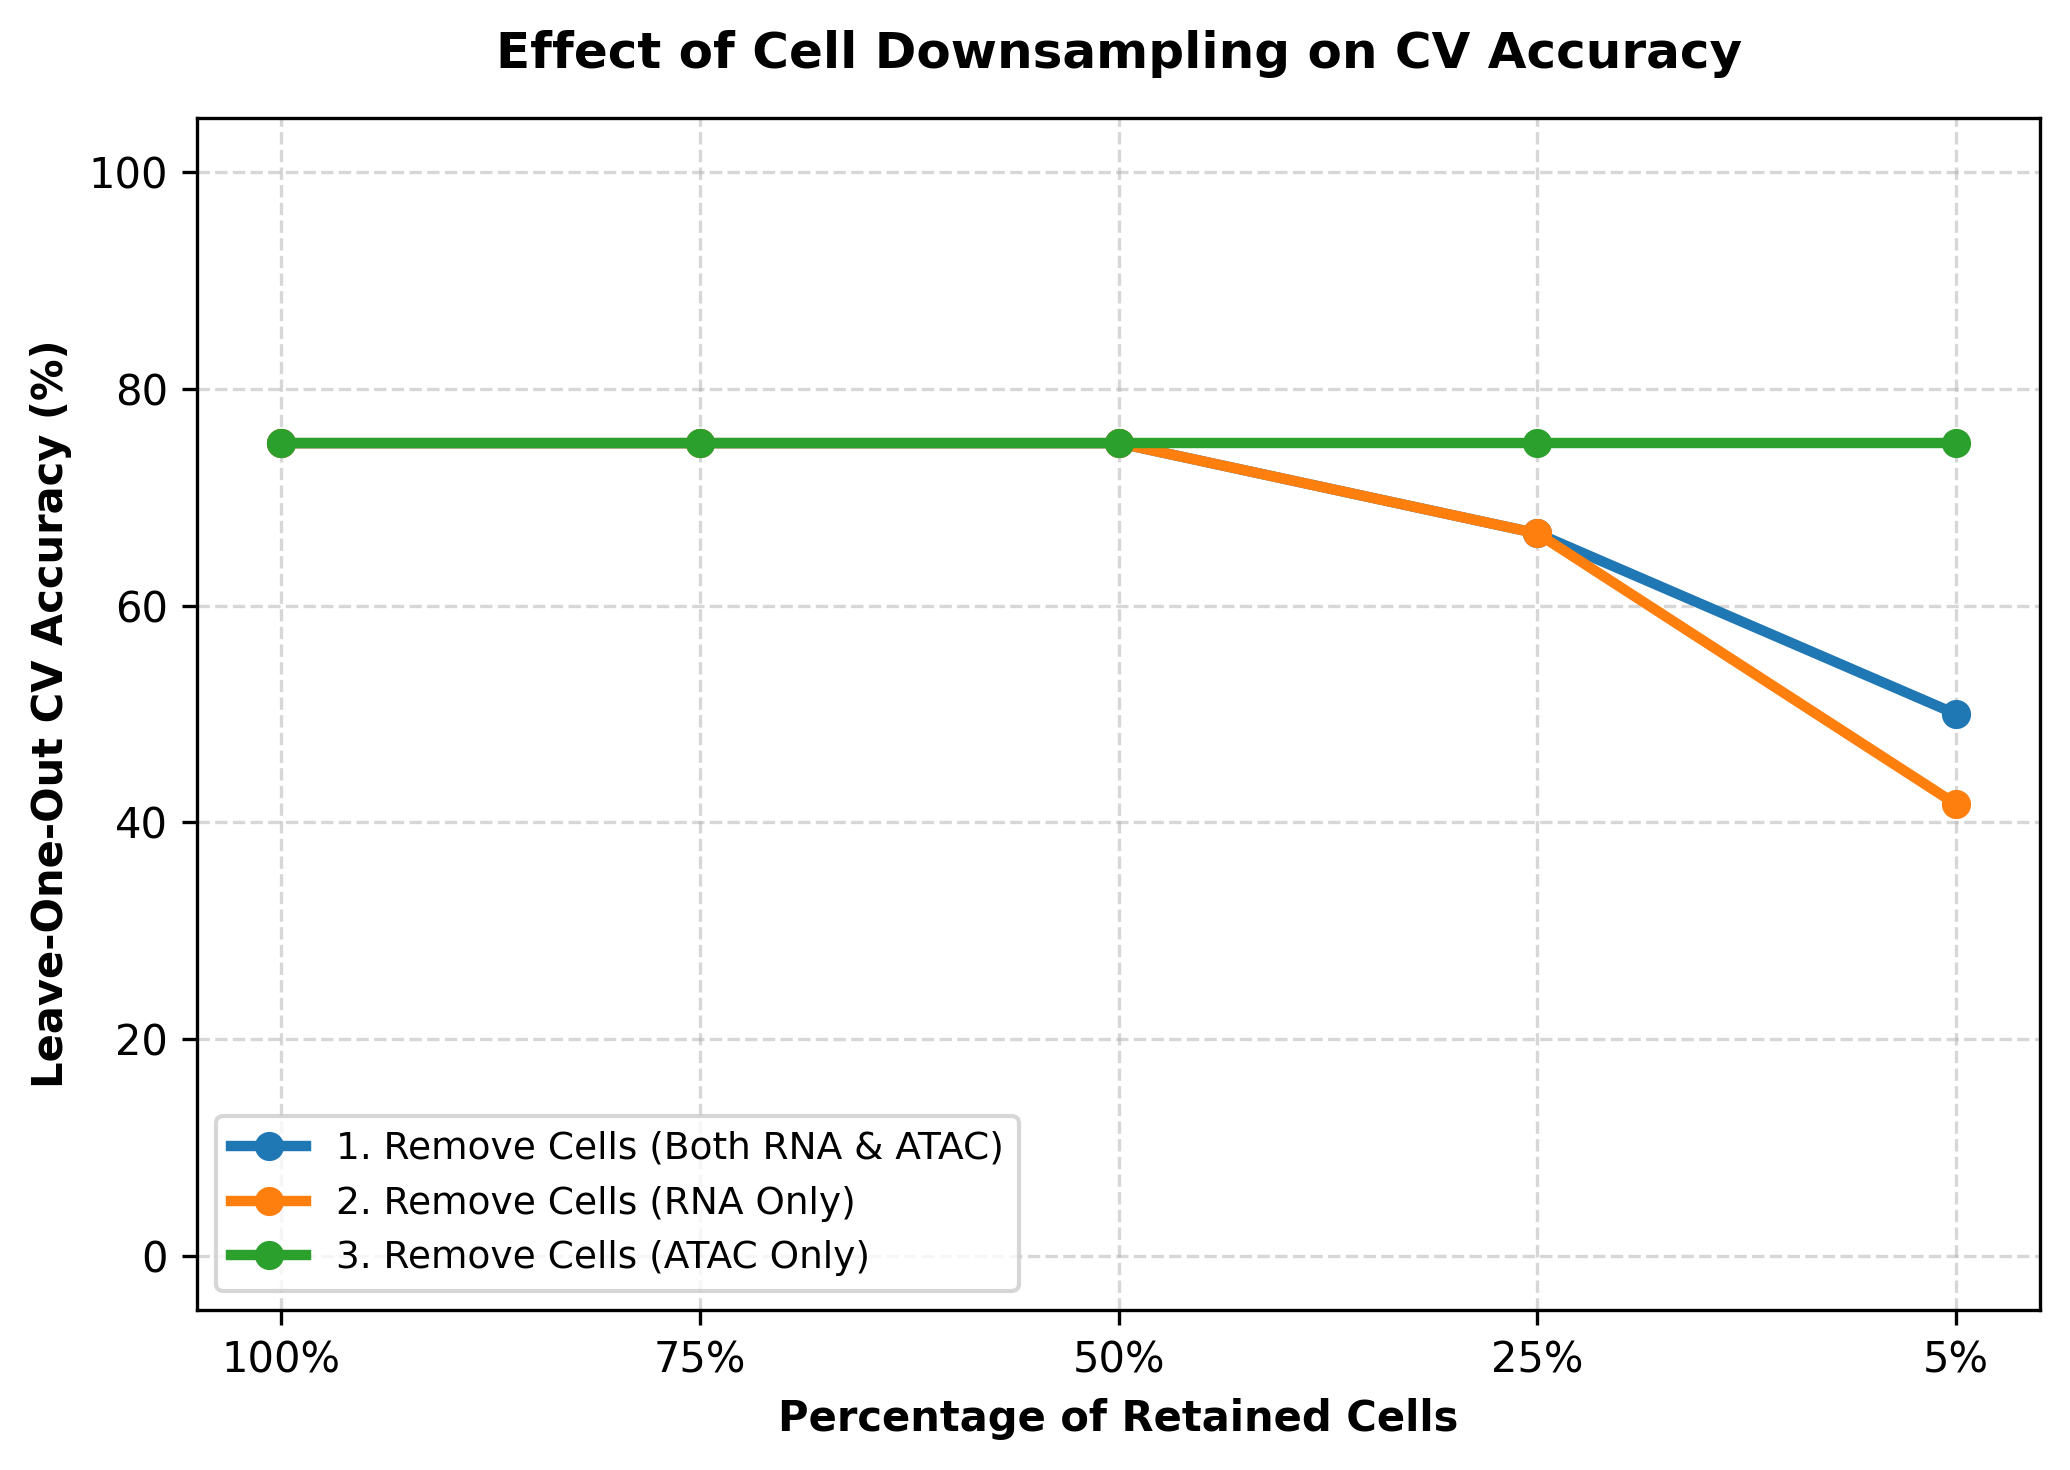
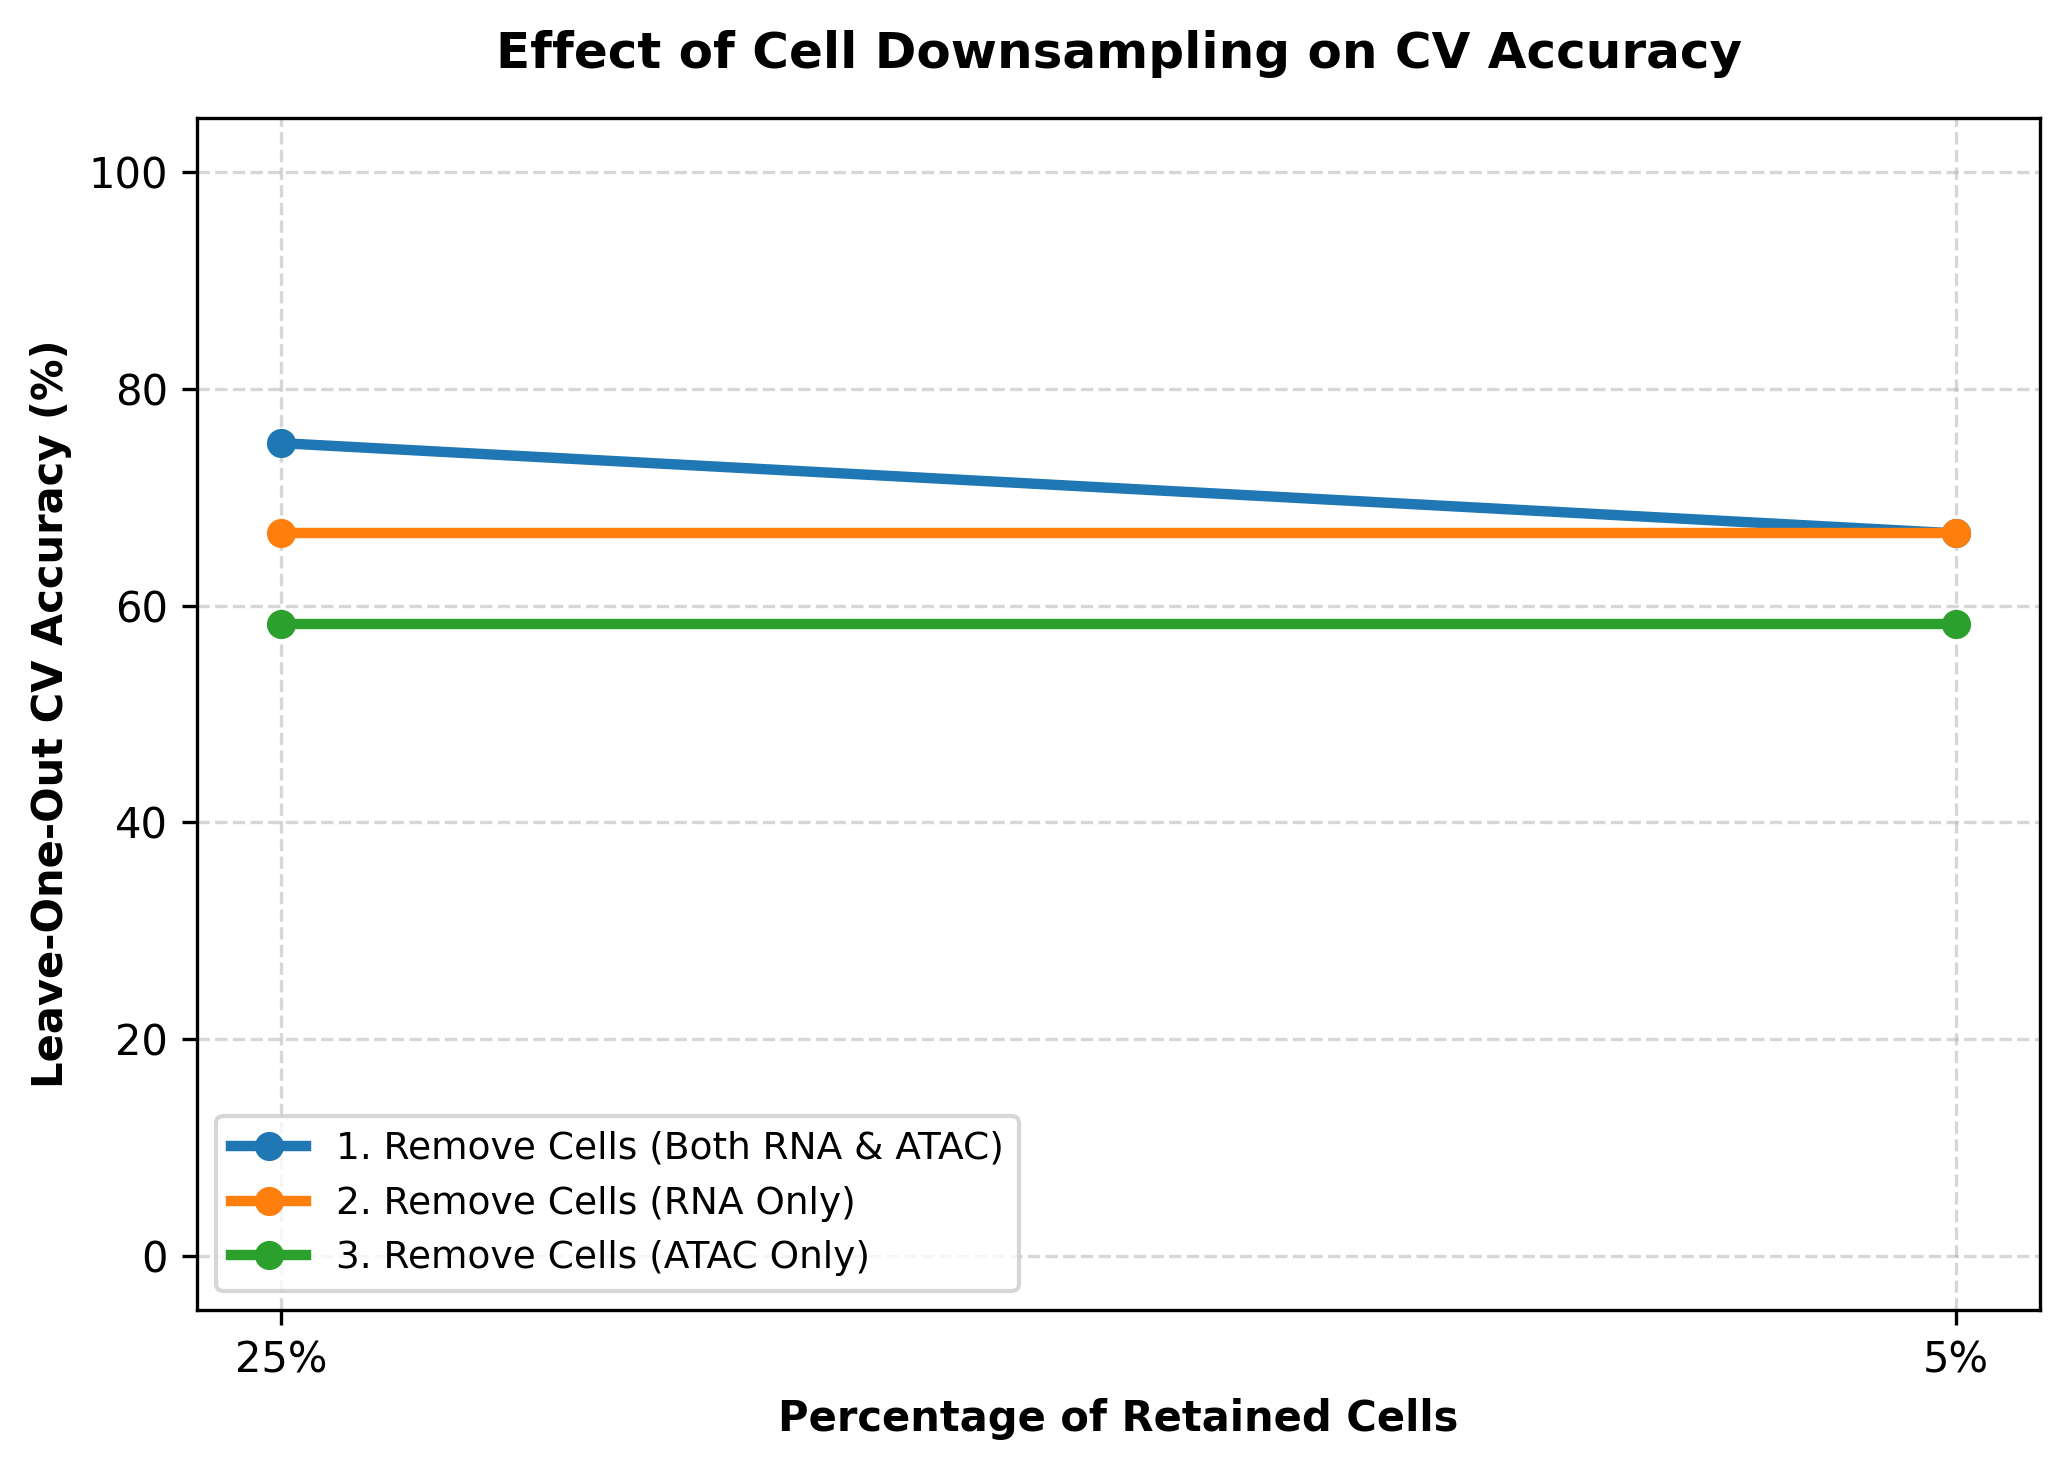
New Updates

diff --git a/ANALYSIS/r2x.py b/ANALYSIS/r2x.py
@@ -19,15 +19,31 @@ def evaluate_pipeline(X_rna_in, X_atac_in, num_genes, num_peaks, eval_rank=5):
     X_rna_temp = X_rna_in.copy()
     X_atac_temp = X_atac_in.copy()
     
-    # Identify highly variable features dynamically
-    sc.pp.highly_variable_genes(X_rna_temp, n_top_genes=num_genes, flavor="cell_ranger", inplace=True)
+    # Filter out 0-expression features created by subsampling to avoid duplicate bin crashes
+    sc.pp.filter_genes(X_rna_temp, min_cells=1)
+    sc.pp.filter_genes(X_atac_temp, min_cells=1)
+
+    # Filter out low-expression features (min 3 cells) created by heavy subsampling
+    sc.pp.filter_genes(X_rna_temp, min_cells=3)
+    sc.pp.filter_genes(X_atac_temp, min_cells=3)
+
+    # Identify highly variable features (seurat flavor avoids bin crashes)
+    try:
+        sc.pp.highly_variable_genes(X_rna_temp, n_top_genes=min(num_genes, X_rna_temp.n_vars), flavor="seurat", inplace=True)
+    except Exception:
+        sc.pp.highly_variable_genes(X_rna_temp, n_top_genes=min(num_genes, X_rna_temp.n_vars), flavor="cell_ranger", n_bins=5, inplace=True)
     X_rna_small = X_rna_temp[:, X_rna_temp.var["highly_variable"]].copy()
 
-    sc.pp.highly_variable_genes(X_atac_temp, n_top_genes=num_peaks, flavor="cell_ranger", inplace=True)
+    try:
+        sc.pp.highly_variable_genes(X_atac_temp, n_top_genes=min(num_peaks, X_atac_temp.n_vars), flavor="seurat", inplace=True)
+    except Exception:
+        sc.pp.highly_variable_genes(X_atac_temp, n_top_genes=min(num_peaks, X_atac_temp.n_vars), flavor="cell_ranger", n_bins=5, inplace=True)
     X_atac_small = X_atac_temp[:, X_atac_temp.var["highly_variable"]].copy()
 
     # Shared Cell Types Intersection
     shared_cell_types = set(X_atac_small.obs['reannotated_predicted_id']).intersection(set(X_rna_small.obs['cell_type']))
+    if not shared_cell_types:
+        return 0.0
     X_atac_small = X_atac_small[X_atac_small.obs['reannotated_predicted_id'].isin(shared_cell_types)].copy()
     X_rna_small = X_rna_small[X_rna_small.obs['cell_type'].isin(shared_cell_types)].copy()
 
@@ -38,19 +54,25 @@ def evaluate_pipeline(X_rna_in, X_atac_in, num_genes, num_peaks, eval_rank=5):
     # Tensor Conversion
     tensor_atac, _ = convert_pseudobulk_to_tensor(pseudobulk_df=pseudobulk_atac_df, outcome_col="lesion_response")
     tensor_rna, labels_rna = convert_pseudobulk_to_tensor(pseudobulk_df=pseudobulk_rna_df, outcome_col="lesion_response")
+    if 0 in tensor_atac.shape or 0 in tensor_rna.shape:
+        return 0.0
 
     y_raw = labels_rna["lesion_response"]
     y = np.array([0 if v == "R" else 1 for v in y_raw], dtype=int)
     tensors = [tensor_atac, tensor_rna]
 
     # Run standard model evaluation at locked rank 5
-    _, final_acc, _, _ = run_coupled_tpls_classification(
+    try:
+        _, final_acc, _, _ = run_coupled_tpls_classification(
         tensors=tensors, 
         labels=y, 
         rank=eval_rank, 
         return_proba=False
     )
-    return final_acc
+        return final_acc
+    except Exception as e:
+        print(f"Warning: Classification failed for this parameter set ({e}). Defaulting accuracy to 0.0")
+    return 0.0
 
 def main():
     print("--- Starting Automated Multi-Environment Stress-Testing Pipeline ---")
@@ -89,14 +111,15 @@ def main():
 
 
     # Settings for Grid Search
-    fractions = [1.0, 0.75, 0.50, 0.25, 0.05]
-    columns = ["100%", "75%", "50%", "25%", "5%"]
+    fractions = [0.25, 0.05]
+    columns = ["25%", "5%"]
     environments = [
         "1. Remove Cells (Both RNA & ATAC)",
         "2. Remove Cells (RNA Only)",
         "3. Remove Cells (ATAC Only)",
         "4. Reduce Genes (RNA Only)",
-        "5. Reduce Peaks (ATAC Only)"
+        "5. Reduce Peaks (ATAC Only)",
+        "6. Reduce Features (Both RNA & ATAC)"
     ]
 
     # Initialize Tracking Dataframe
@@ -130,6 +153,9 @@ def main():
         current_peaks = int(base_peaks * frac) if int(base_peaks * frac) >= 10 else 10
         results_df.loc["5. Reduce Peaks (ATAC Only)", col_name] = evaluate_pipeline(X_rna_base, X_atac_base, base_genes, current_peaks)
 
+        # --- ENV 6: Scale BOTH Features Simultaneously ---
+        results_df.loc["6. Reduce Features (Both RNA & ATAC)", col_name] = evaluate_pipeline(X_rna_base, X_atac_base, current_genes, current_peaks)
+
     # Print Final Summary Matrix to Terminal
     print("\n======================= FINAL ACCURACY MATRIX =======================")
     print(results_df.to_string())
@@ -139,10 +165,10 @@ def main():
     plot_df = results_df.astype(float) * 100
 
     # X-axis labels for the cell downsampling plot
-    columns_pct = ["100%", "75%", "50%", "25%", "5%"]
+    columns_pct = ["25%", "5%"]
 
     # Actual feature counts for the gene/peak reduction plot (calculated from 2000 top features)
-    feature_counts = [2000, 1500, 1000, 500, 100]
+    feature_counts = [500, 100]
     # ----------------------------------------------------
     # PLOT 1: Cell Downsampling (Environments 1, 2, and 3)
     # ----------------------------------------------------
@@ -177,9 +203,10 @@ def main():
     
     feature_envs = [
         "4. Reduce Genes (RNA Only)",
-        "5. Reduce Peaks (ATAC Only)"
+        "5. Reduce Peaks (ATAC Only)",
+        "6. Reduce Features (Both RNA & ATAC)"
     ]
-    colors_feature = ['#d62728', '#9467bd']
+    colors_feature = ['#d62728', '#9467bd', '#2ca02c']
 
     # Plot each feature reduction line against actual feature counts
     for env, color in zip(feature_envs, colors_feature):
